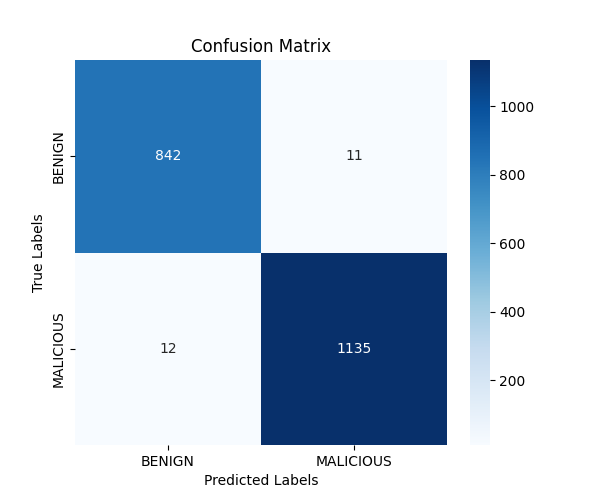
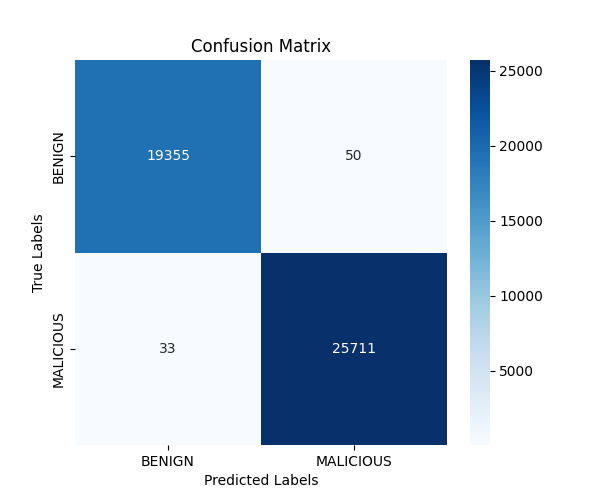
add metrics data, add plots

diff --git a/src/analyze/__init__.py b/src/analyze/__init__.py
@@ -22,8 +22,8 @@ from analyze.utils.plots import (
 )
 from analyze.utils.read_file import read_file, sample_data, save_metrics_to_csv
 
-USE_SAMPLING = True
-SAMPLE_SIZE = 10000
+USE_SAMPLING = False
+SAMPLE_SIZE = 100000
 
 
 def preprocess_data(file_path, selected_features):
